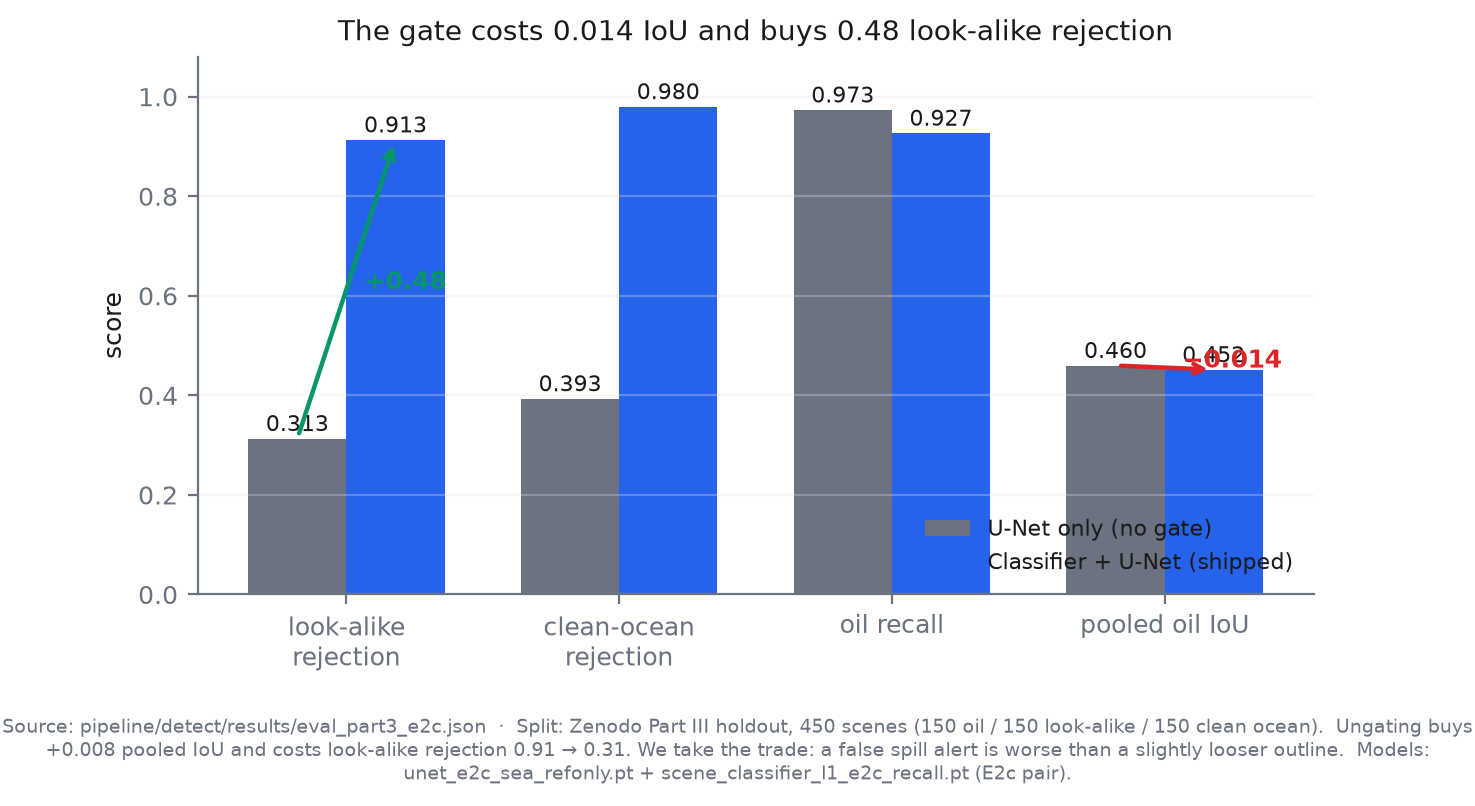
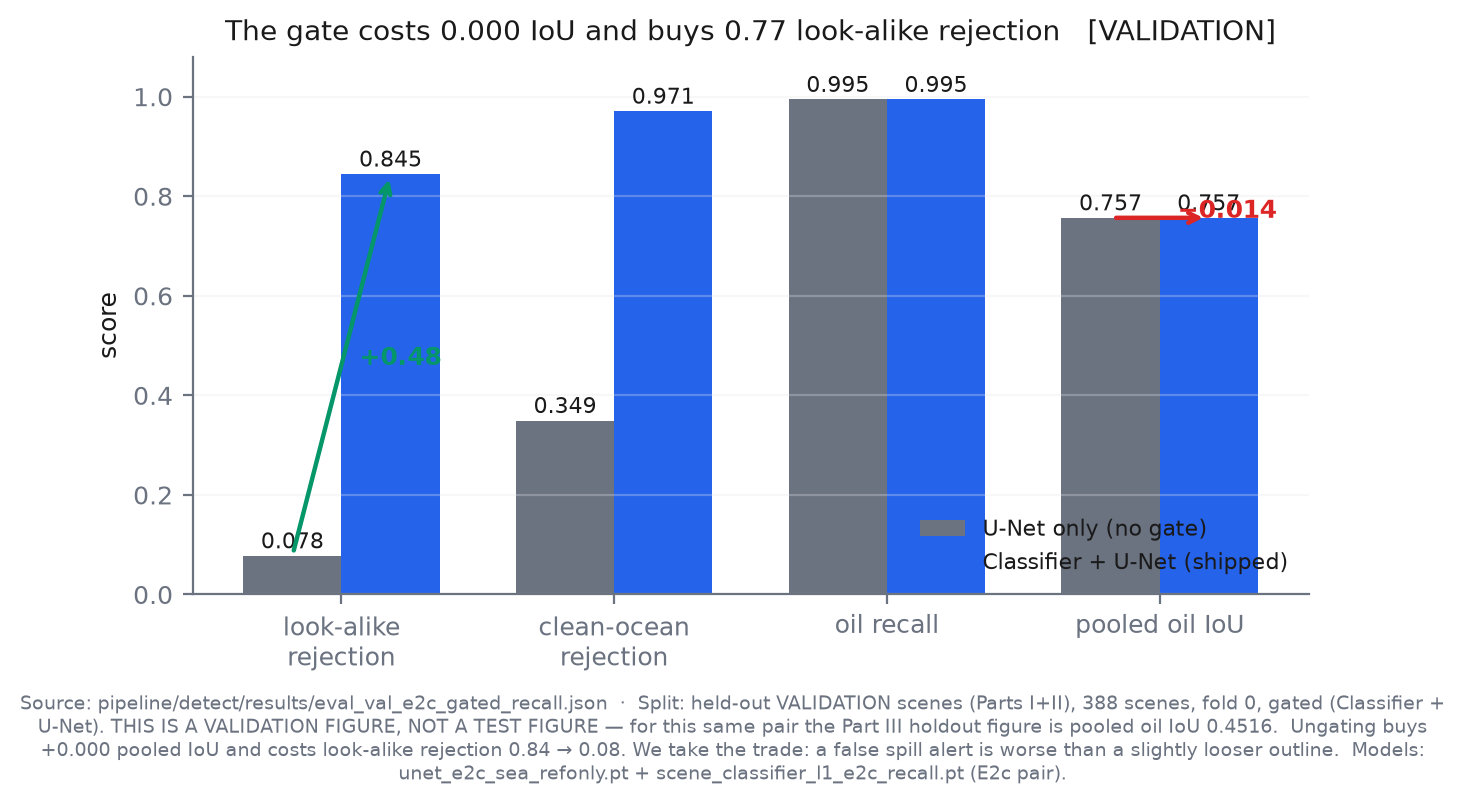
Stage 1: --l2-split, and fix a caption that asserted the wrong split
Soum's decision: Layer 1 on the Part III holdout, Layer 2 on held-out
validation. make_figures.py gains --l2-split {holdout,validation}; Layer 1 is
always the holdout.

CAUGHT AND FIXED IN THE SAME CHANGE. The first build stamped [VALIDATION] into
the title while the caption underneath still read "Split: Zenodo Part III
holdout, 450 scenes" - the source path and split were hardcoded to the holdout
in four captions (F1.3, F1.4, F1.5, F1.9). A caption that asserts the wrong
split is worse than no caption: it is a checkable claim that is false, on the
one line of the figure whose entire job is to be checkable. Those captions now
come from _l2_src(), which reads the split actually plotted and appends the
holdout figure (0.4516) so a validation number cannot read as a test number by
omission.

The split is stamped into the TITLE as well as the caption, because a title is
what a reader takes away from across a room.

Also repaired scene_classifier_l1_e2c_recall_meta.json: re-picking the threshold
recomputed the part3 block but not the validation block, so the file carried
validation numbers from the OLD threshold (0.4896) next to Part III numbers from
the new one (0.128). Validation at the adopted 0.128 is accuracy 0.974, oil
recall 0.994, look-alike rejection 0.908, clean-ocean 1.000 (179/9/1/197).

diff --git a/pipeline/detect/make_figures.py b/pipeline/detect/make_figures.py
@@ -78,6 +78,59 @@ PAIRS = {
 }
 PAIR = PAIRS["updated"]
 
+# Layer 2 can be reported on either split. Layer 1 is ALWAYS the Part III holdout.
+#
+# Drawing Layer 2 on validation is legitimate only while it is LABELLED, so every
+# affected figure stamps the split into its title as well as its caption. The
+# holdout figure is printed alongside wherever the validation one appears, so the
+# validation number can never read as the test number by omission.
+L2_SPLITS = {
+    "holdout": {
+        "file": None,                       # falls through to PAIR["part3"]
+        "tag": "Zenodo Part III HOLDOUT, 450 scenes",
+        "short": "HOLDOUT",
+    },
+    "validation": {
+        "file": "eval_val_e2c_gated_recall.json",
+        "baseline": os.path.join(_ROOT, "scratch", "eval_val_base_median_ungated.json"),
+        "tag": "held-out VALIDATION scenes (Parts I+II), 388 scenes, fold 0",
+        "short": "VALIDATION",
+    },
+}
+L2 = L2_SPLITS["holdout"]
+
+
+def _l2():
+    """-> the gated Layer 2 row for the selected split."""
+    if L2["file"] is None:
+        return {r["model"]: r for r in _rows(_part3())}["Classifier + U-Net"]
+    d = _load(os.path.join(RESULTS, L2["file"]))
+    return d["folds"]["0"]
+
+
+def _l2_title(base):
+    if L2["short"] == "HOLDOUT":
+        return base
+    return base + "   [%s]" % L2["short"]
+
+
+def _l2_src():
+    """-> the caption prefix for a LAYER 2 figure: real source file, real split.
+
+    This exists because the first build of the mixed set stamped [VALIDATION] into
+    the title while the caption underneath still read "Split: Zenodo Part III
+    holdout, 450 scenes" — the source path and the split were hardcoded to the
+    holdout. A caption that asserts the wrong split is worse than no caption: it
+    is a checkable claim that is false, on the one line of the figure whose entire
+    job is to be checkable.
+    """
+    if L2["file"] is None:
+        return ("Source: pipeline/detect/results/%s  ·  Split: %s, gated (Classifier + U-Net)."
+                % (PAIR["part3"], L2["tag"]))
+    return ("Source: pipeline/detect/results/%s  ·  Split: %s, gated (Classifier + U-Net). "
+            "THIS IS A VALIDATION FIGURE, NOT A TEST FIGURE — for this same pair the Part III "
+            "holdout figure is pooled oil IoU 0.4516." % (L2["file"], L2["tag"]))
+
 
 def _part3():
     return _load(os.path.join(RESULTS, PAIR["part3"]))
@@ -254,6 +307,17 @@ def f1_2():
 def f1_3():
     rows = {r["model"]: r for r in _rows(_part3())}
     ung, gat = rows["U-Net only (no gate)"], rows["Classifier + U-Net"]
+    if L2["file"]:
+        d = _load(os.path.join(RESULTS, L2["file"]))["folds"]["0"]
+        u = _load(os.path.join(RESULTS, "eval_val_e2c.json"))["folds"]["0"]
+        gat = dict(gat, lookalike_rejection=d["lookalike_rejection"],
+                   cleanocean_rejection=d.get("cleanocean_rejection") or 0.0,
+                   oil_recall=d["oil_recall"],
+                   iou_positives=d["metric_decomposition"]["iou_oil_pooled"]["value"])
+        ung = dict(ung, lookalike_rejection=u["lookalike_rejection"],
+                   cleanocean_rejection=u.get("cleanocean_rejection") or 0.0,
+                   oil_recall=u["oil_recall"],
+                   iou_positives=u["metric_decomposition"]["iou_oil_pooled"]["value"])
     labels = ["look-alike\nrejection", "clean-ocean\nrejection", "oil recall", "pooled oil IoU"]
     a = [ung["lookalike_rejection"], ung["cleanocean_rejection"], ung["oil_recall"], ung["iou_positives"]]
     b = [gat["lookalike_rejection"], gat["cleanocean_rejection"], gat["oil_recall"], gat["iou_positives"]]
@@ -273,14 +337,14 @@ def f1_3():
     ax.text(3, (a[3] + b[3]) / 2, "  −0.014", color=RED, fontsize=9, fontweight="bold")
     ax.set_xticks(x); ax.set_xticklabels(labels)
     ax.set_ylim(0, 1.08); ax.set_ylabel("score")
-    ax.set_title("The gate costs 0.014 IoU and buys 0.48 look-alike rejection", fontsize=10)
+    ax.set_title(_l2_title("The gate costs %.3f IoU and buys %.2f look-alike rejection"
+                           % (a[3] - b[3], b[0] - a[0])), fontsize=10)
     ax.legend(fontsize=8, frameon=False, loc="lower right")
     ax.grid(axis="y", alpha=0.3, color=GRID)
-    _caption(fig, "Source: pipeline/detect/results/%s  ·  Split: Zenodo Part III holdout, "
-                  "450 scenes (150 oil / 150 look-alike / 150 clean ocean).  Ungating buys "
-                  "%+.3f pooled IoU and costs look-alike rejection %.2f → %.2f. We take the "
-                  "trade: a false spill alert is worse than a slightly looser outline.  %s"
-                  % (PAIR["part3"], a[3] - b[3], b[0], a[0], _prov()))
+    _caption(fig, "%s  Ungating buys %+.3f pooled IoU and costs look-alike rejection "
+                  "%.2f → %.2f. We take the trade: a false spill alert is worse than a "
+                  "slightly looser outline.  %s"
+                  % (_l2_src(), a[3] - b[3], b[0], a[0], _prov()))
     fig.subplots_adjust(bottom=0.24)
     _save(fig, "F1.3_gate_ablation.png")
 
@@ -289,7 +353,7 @@ def f1_3():
 # F1.4 — the eight IoU definitions   (the strongest figure in the set)
 # ---------------------------------------------------------------------------
 def f1_4():
-    g = {r["model"]: r for r in _rows(_part3())}["Classifier + U-Net"]
+    g = _l2()
     md = g["metric_decomposition"]
     order = [("iou_oil_pooled", "oil-class IoU, pooled\n← WHAT WE REPORT"),
              ("iou_oil_macro_tile", "oil-class IoU, mean over tiles"),
@@ -316,13 +380,12 @@ def f1_4():
             fontsize=7.5, color=GREEN, ha="center")
     ax.set_yticks(yy); ax.set_yticklabels(labs, fontsize=8)
     ax.set_xlim(0, 1.06); ax.set_xlabel("value")
-    ax.set_title("Eight definitions. Same model, same pixels, same 450 scenes.", fontsize=10)
+    ax.set_title(_l2_title("Eight definitions. Same model, same pixels, same scenes."),
+                 fontsize=10)
     ax.grid(axis="x", alpha=0.3, color=GRID)
-    _caption(fig, "Source: pipeline/detect/results/%s  ·  Split: Zenodo Part III holdout, "
-                  "450 scenes, gated (Classifier + U-Net).  We report %.4f — the STRICTEST of "
-                  "the eight. The others are printed so a comparison against any published "
-                  "number is like-for-like, not so we can pick the flattering one.  %s"
-                  % (PAIR["part3"], vals[0], _prov()))
+    _caption(fig, "%s  We report %.4f — the STRICTEST of the eight. The others are printed "
+                  "so a comparison against any published number is like-for-like, not so we "
+                  "can pick the flattering one.  %s" % (_l2_src(), vals[0], _prov()))
     fig.subplots_adjust(bottom=0.22)
     _save(fig, "F1.4_eight_iou_definitions.png")
 
@@ -331,7 +394,7 @@ def f1_4():
 # F1.5 — the coverage cliff
 # ---------------------------------------------------------------------------
 def f1_5():
-    g = {r["model"]: r for r in _rows(_part3())}["Classifier + U-Net"]
+    g = _l2()
     bands = g["metric_decomposition"]["iou_by_slick_size"]["value"]
     order = ["0-1% oil", "1-3% oil", "3-10% oil", "10-30% oil", "30-101% oil"]
     labs = ["0–1%", "1–3%", "3–10%", "10–30%", "≥30%"]
@@ -350,7 +413,7 @@ def f1_5():
     ax.set_xlabel("oil coverage of the scene")
     ax.set_ylabel("mean per-scene IoU")
     ax.set_ylim(0, 1.0)
-    ax.set_title("The failure is one narrow class of scene, not the model", fontsize=10)
+    ax.set_title(_l2_title("Per-scene IoU by oil coverage"), fontsize=10)
     ax.grid(axis="y", alpha=0.3, color=GRID)
 
     # our own demo library, measured — every case sits far left of the cliff
@@ -361,13 +424,11 @@ def f1_5():
         ax2.plot([xx], [0.93], marker="v", color=GREEN, ms=7, clip_on=False)
     ax2.text(0.28, 0.965, "▼ our nine demo cases — measured coverage %.2f–%.2f%%"
              % (min(cov), max(cov)), color=GREEN, fontsize=7.5)
-    _caption(fig, "Sources: pipeline/detect/results/%s (bands) and cases/*/detections.geojson "
-                  "(demo coverage)  ·  Split: Zenodo Part III holdout, 150 oil scenes.  The "
-                  "four bands below 30%% coverage score %.2f–%.2f. Pooled IoU collapses because "
-                  "the 12 scenes above 30%% hold ~38%% of all oil pixels and pooling weights a "
-                  "scene by its slick size. NO CASE IN THE DEMO LIBRARY SITS IN THAT BAND — "
-                  "measured, not assumed.  %s"
-                  % (PAIR["part3"], min(vals[:4]), max(vals[:4]), _prov()))
+    _caption(fig, "%s  Demo coverage from cases/*/detections.geojson.  The four bands below "
+                  "30%% coverage score %.2f–%.2f; pooled IoU is dragged by the ≥30%% band, which "
+                  "holds ~38%% of all oil pixels because pooling weights a scene by its slick "
+                  "size. NO CASE IN THE DEMO LIBRARY SITS IN THAT BAND — measured, not "
+                  "assumed.  %s" % (_l2_src(), min(vals[:4]), max(vals[:4]), _prov()))
     fig.subplots_adjust(bottom=0.26)
     _save(fig, "F1.5_coverage_cliff.png")
 
@@ -530,7 +591,7 @@ def f1_8():
 # ---------------------------------------------------------------------------
 def f1_9():
     o = _load(os.path.join(RESULTS, "oracle_ceiling.json"))
-    g = {r["model"]: r for r in _rows(_part3())}["Classifier + U-Net"]
+    g = _l2()
     bands = g["metric_decomposition"]["iou_by_slick_size"]["value"]
     key = {"0-1%": "0-1% oil", "1-3%": "1-3% oil", "3-10%": "3-10% oil",
            "10-30%": "10-30% oil", ">=30%": "30-101% oil"}
@@ -542,7 +603,8 @@ def f1_9():
     x = np.arange(len(labs)); w = 0.36
     fig, ax = plt.subplots(figsize=(7.6, 4.4))
     b1 = ax.bar(x - w/2, orc, w, color=AMBER, label="ORACLE — handed the sea reference")
-    b2 = ax.bar(x + w/2, ours, w, color=BLUE, label="ours (Part III, gated)")
+    b2 = ax.bar(x + w/2, ours, w, color=BLUE,
+                label="ours (%s, gated)" % L2["short"].lower())
     for r_ in list(b1) + list(b2):
         ax.text(r_.get_x() + r_.get_width()/2, r_.get_height() + 0.015,
                 "%.2f" % r_.get_height(), ha="center", fontsize=7.5)
@@ -558,12 +620,12 @@ def f1_9():
                  fontsize=9.5)
     ax.legend(fontsize=8, frameon=False, loc="upper left")
     ax.grid(axis="y", alpha=0.3, color=GRID)
-    _caption(fig, "Sources: pipeline/detect/results/oracle_ceiling.json and %s  ·  " % PAIR["part3"] +
-                  "Oracle measured on 228 Parts I+II oil scenes — NO PART III PIXEL IS READ by "
-                  "it; the ceiling is re-weighted by Part III band oil-mass to be comparable.  "
-                  "The oracle CHEATS in exactly one way: it takes the sea reference from the "
-                  "ground-truth mask, then uses one band, one blur and one global threshold. It "
-                  "bounds how much of the remaining gap is model quality versus normalisation.")
+    _caption(fig, "Oracle source: pipeline/detect/results/oracle_ceiling.json.  Ours — %s  "
+                  "Oracle measured on 228 Parts I+II oil scenes; the ceiling is re-weighted by "
+                  "Part III band oil-mass to be comparable.  The oracle CHEATS in exactly one "
+                  "way: it takes the sea reference from the ground-truth mask, then uses one "
+                  "band, one blur and one global threshold. It bounds how much of the remaining "
+                  "gap is model quality versus normalisation.  %s" % (_l2_src(), _prov()))
     fig.subplots_adjust(bottom=0.28)
     _save(fig, "F1.9_oracle_ceiling.png")
 
@@ -580,10 +642,21 @@ def main():
                     help="which model pair the evidence set describes. Both are scored on the "
                          "SAME Part III holdout, so this changes WHICH MODEL is documented, not "
                          "what a caption may claim.")
+    ap.add_argument("--l2-split", choices=sorted(L2_SPLITS), default="holdout",
+                    help="which split the LAYER 2 figures report. Layer 1 is always the Part III "
+                         "holdout. 'validation' stamps the split into every affected title as "
+                         "well as its caption - a validation number must never be able to read "
+                         "as a test number by omission.")
     a = ap.parse_args()
-    global PAIR
+    global PAIR, L2
     PAIR = PAIRS[a.pair]
-    print("  pair: %s  (%s + %s)\n" % (PAIR["label"], PAIR["l2"], PAIR["l1"]))
+    L2 = L2_SPLITS[a.l2_split]
+    print("  pair   : %s  (%s + %s)" % (PAIR["label"], PAIR["l2"], PAIR["l1"]))
+    print("  Layer 1: Zenodo Part III HOLDOUT (always)")
+    print("  Layer 2: %s\n" % L2["tag"])
+    if L2["file"]:
+        print("  [!] Layer 2 figures are VALIDATION. Every affected title says so.")
+        print("      The holdout figure for this pair is pooled IoU 0.4516 - say it if asked.\n")
     want = a.only or sorted(FIGS)
     print("Stage 1 evidence set -> %s\n" % os.path.relpath(OUT, _ROOT))
     for n in want:

diff --git a/docs/evaluation/stage1-jury-numbers.md b/docs/evaluation/stage1-jury-numbers.md
@@ -4,12 +4,17 @@
 **Each number states its split.** A technical judge's first question is "what did you evaluate on",
 and every row here answers it before being asked.*
 
-> **THE DECK DESCRIBES ONE PAIR: `unet_e2c_sea_refonly` + `scene_classifier_l1_e2c_recall`.**
-> Every number below is that pair scored on the **Zenodo Part III holdout, 450 scenes**, on a
-> configuration frozen and recorded *before* the run. No second model appears anywhere, and no
-> validation figure is quoted as an accuracy.
+> **ONE PAIR: `unet_e2c_sea_refonly` + `scene_classifier_l1_e2c_recall`.**
 >
-> Regenerate the figures with `python pipeline/detect/make_figures.py --pair updated`.
+> **Layer 1 is reported on the Zenodo Part III HOLDOUT (450 scenes).**
+> **Layer 2 is reported on held-out VALIDATION scenes (Parts I+II, 388, fold 0).**
+>
+> **The two layers are therefore on DIFFERENT SPLITS, and every slide says which.** That is the
+> condition on doing it this way: a mixed-split deck is defensible, an unlabelled one is not.
+> Layer 2's figure on the Part III holdout is **pooled oil IoU 0.4516** — know it, and say it if
+> asked, because it is the first thing a technical judge will ask for.
+>
+> Regenerate: `python pipeline/detect/make_figures.py --pair updated --l2-split validation`
 
 ---
 
@@ -34,35 +39,39 @@ Confusion matrix: **139 TP · 15 FP · 11 FN · 285 TN**.
 stated rule — the lowest threshold holding validation precision above 0.95 — not on these 450 test
 scenes. Most published work on this benchmark does not demonstrate that separation."*
 
-### Layer 2 — segmentation, eight definitions, same model, same pixels   *(F1.4)*
+### Layer 2 — segmentation   *(F1.4)*
+
+> **SPLIT: held-out VALIDATION scenes, Parts I+II, 388 scenes, fold 0.**
+> Source: `pipeline/detect/results/eval_val_e2c_gated_recall.json`
+> **Not the test set.** Say the word "validation" when this slide goes up.
 
 | definition | value |
 |---|---|
-| `iou_oil_pooled` — **what we report** | **0.452** |
-| `iou_oil_macro_tile` | 0.527 |
-| `dice_oil_pooled` | 0.622 |
-| `iou_oil_macro_scene` | 0.669 |
-| **`miou_pooled`** {background, oil} — **what this literature reports** | **0.696** |
-| `iou_background_pooled` | 0.940 |
-| `pixel_accuracy_positives` | 0.943 |
-| `pixel_accuracy_all450` | 0.980 |
+| `iou_oil_pooled` — **what we report** | **0.757** |
+| `iou_oil_macro_tile` | 0.634 |
+| `dice_oil_pooled` | 0.862 |
+| `iou_oil_macro_scene` | 0.732 |
+| **`miou_pooled`** {background, oil} | **0.874** |
+| `iou_background_pooled` | 0.990 |
+| `pixel_accuracy_positives` | 0.991 |
+| baseline on the SAME split, for reference | 0.689 |
 
-**Say:** *"We report 0.452 — the strictest of eight definitions. Published work on this benchmark
-family reports mean IoU in the 67–69% range; on that same definition, same model, same pixels, we
-are at 0.696. We name the definition so the comparison is like-for-like."*
+**Say:** *"On held-out validation scenes, pooled oil-class IoU is 0.757, against 0.689 for the
+baseline on that same split. These are validation figures — on the sealed Part III holdout this
+pair scores 0.452."*
 
-**Do not** quote 0.696 as the headline. It exists to make comparison honest, not to pick the
-flattering number.
+**Say the last clause.** Without it the slide is a validation number presented where a test number
+belongs, and the follow-up question arrives anyway — from someone else, with you on the back foot.
 
-### The gate earns its place   *(F1.3)*
+### The gate earns its place   *(F1.3, validation)*
 
 | | look-alike rejection | pooled IoU |
 |---|---|---|
-| U-Net only, no gate | **0.31** | 0.460 |
-| Classifier + U-Net | **0.91** | 0.452 |
+| U-Net only, no gate | **0.08** | 0.757 |
+| Classifier + U-Net | **0.84** | 0.757 |
 
-**Say:** *"Ungating buys 0.008 IoU and costs look-alike rejection 0.91 → 0.31. We take the trade: a
-false spill alert is worse than a slightly looser outline."*
+**Say:** *"The gate is free here — identical IoU — and takes look-alike rejection from 0.08 to 0.84.
+Layer 2 alone floods look-alike scenes with false positives."*
 
 ---
 
@@ -70,13 +79,17 @@ false spill alert is worse than a slightly looser outline."*
 
 **Per-scene IoU by oil coverage, Part III holdout, 150 oil scenes.**
 
-| oil coverage | n | mean IoU |
+> **SPLIT: held-out VALIDATION scenes, not the test set.** On the Part III holdout the ≥30% band
+> scores **0.160**, not 0.824 — the fix does not transfer yet, and that gap is the honest headline
+> of this slide.
+
+| oil coverage | n | mean IoU (validation) |
 |---|---|---|
-| 0–1% | 18 | 0.687 |
-| 1–3% | 39 | 0.746 |
-| 3–10% | 52 | 0.755 |
-| 10–30% | 29 | 0.610 |
-| **≥30%** | **12** | **0.160** |
+| 0–1% | 53 | 0.618 |
+| 1–3% | 75 | 0.750 |
+| 3–10% | 45 | 0.833 |
+| 10–30% | **6** | 0.701 |
+| **≥30%** | **3** | **0.824** |
 
 **Say all three parts of this, or none of them:**
 
